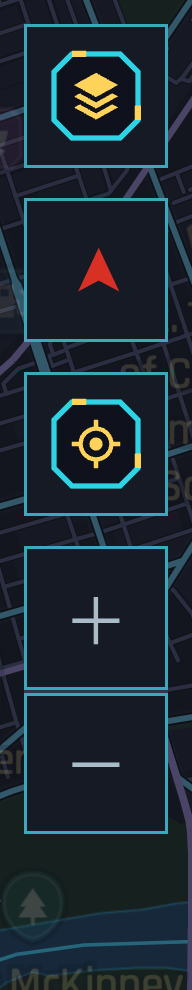
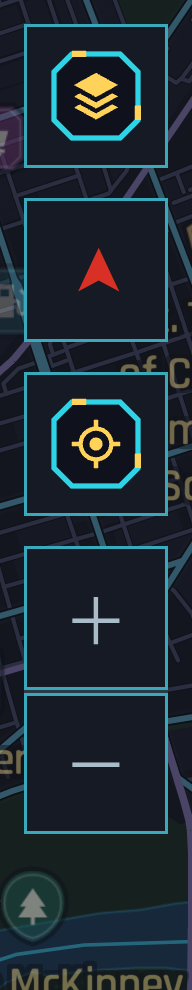
v0.9.2b: Frontier Ink chrome uses opposite parchment (dark chrome on light map, light chrome on dark map); compass disc fixed colour

diff --git a/web/public/tex/west.css b/web/public/tex/west.css
@@ -35,5 +35,11 @@ html body.west .act .b{clip-path:none;border-radius:8px 6px 9px 7px / 6px 9px 7p
 html body.west .garr{clip-path:none;border-radius:8px 6px 9px 7px !important;background:var(--ink)}
 html body.west .chip.on{background:var(--ink);color:#efe3c8}html body.west.dark .chip.on{background:#e6d6b4;color:#3b2a1a}
 html body.west #compassBtn{color:#efe3c8 !important} /* v0.9.2: parchment tile like the other buttons; small ink disc inside */
-html body.west #compassBtn #needle{width:30px;height:30px;border-radius:50%;background:var(--ink);display:inline-grid;place-items:center;line-height:1;font-size:17px;box-shadow:0 1px 2px rgba(40,25,10,.35)}
-html body.west.dark #compassBtn #needle{background:#17100a;box-shadow:0 0 0 1px rgba(217,196,154,.35),0 1px 2px rgba(0,0,0,.5)}
+html body.west #compassBtn #needle{width:30px;height:30px;border-radius:50%;background:#241a10;display:inline-grid;place-items:center;line-height:1;font-size:17px;box-shadow:0 1px 2px rgba(40,25,10,.35)}
+/* v0.9.2b: map chrome (search bar, nav bar, side buttons) uses the OPPOSITE parchment of the map, so it stands off the map in both variants */
+html body.west:not(.dark) :is(#searchbar,#controls .ctl,#controls .zoomgrp,#navBanner,#navFoot){--pf:url(parch_dark.webp);--rimL:url(rim_l_dark.webp);--rimM:url(rim_m_dark.webp);--rimS:url(rim_s_dark.webp);
+  --bg:#4c3a27;--chip:#4c3a27;--fg:#f6ead0;--muted:#ead8b2;--line:#9a7a4c;--accent:#f0b878;--ink:#2a2017;--icr:rgba(138,115,80,.7);color:var(--fg)}
+html body.west.dark :is(#searchbar,#controls .ctl,#controls .zoomgrp,#navBanner,#navFoot){--pf:url(parch_light.webp);--rimL:url(rim_l_light.webp);--rimM:url(rim_m_light.webp);--rimS:url(rim_s_light.webp);
+  --bg:#ead9b4;--chip:#ead9b4;--fg:#22160b;--muted:#3e2c18;--line:#8a6a40;--accent:#7a2a1c;--ink:#3a322a;--icr:#241c15;color:var(--fg)}
+html body.west:not(.dark) #searchbar input::placeholder{color:#e2cfa8}html body.west.dark #searchbar input::placeholder{color:#4a3720}
+html body.west:not(.dark) #searchbar input{color:#f6ead0}html body.west.dark #searchbar input{color:#22160b}
